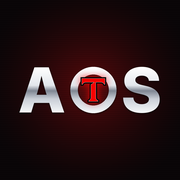
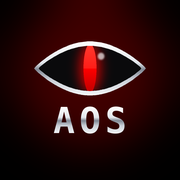
App-Symbol zurück auf Tiger-Auge mit roter Pupille
Claude-Session: https://claude.ai/code/session_01UpkBZS6bJZKp7ytn9VKSsi

diff --git a/index.html b/index.html
@@ -4,8 +4,8 @@
 <meta charset="utf-8">
 <meta name="viewport" content="width=device-width, initial-scale=1, viewport-fit=cover">
 <link rel="manifest" href="manifest.webmanifest">
-<link rel="apple-touch-icon" href="apple-touch-icon.png?v=6">
-<link rel="icon" type="image/png" sizes="192x192" href="icon-192.png?v=6">
+<link rel="apple-touch-icon" href="apple-touch-icon.png?v=7">
+<link rel="icon" type="image/png" sizes="192x192" href="icon-192.png?v=7">
 <meta name="theme-color" content="#000000">
 <meta name="apple-mobile-web-app-capable" content="yes">
 <meta name="mobile-web-app-capable" content="yes">

diff --git a/sw.js b/sw.js
@@ -1,6 +1,6 @@
 /* AOS Service Worker – speichert nur die App-Dateien für den Offline-Start.
    Trainingsdaten laufen nicht über den Service Worker (Anfragen an api.github.com werden nicht zwischengespeichert). */
-const CACHE = 'aos-12369a7a76f8';
+const CACHE = 'aos-cba04b22a92c';
 const FILES = ['./', './index.html', './manifest.webmanifest', './apple-touch-icon.png', './icon-192.png', './icon-512.png', './icon-maskable-512.png', './img/tiger.png?v=1', './img/t.png?v=1'];
 
 self.addEventListener('install', e => {
